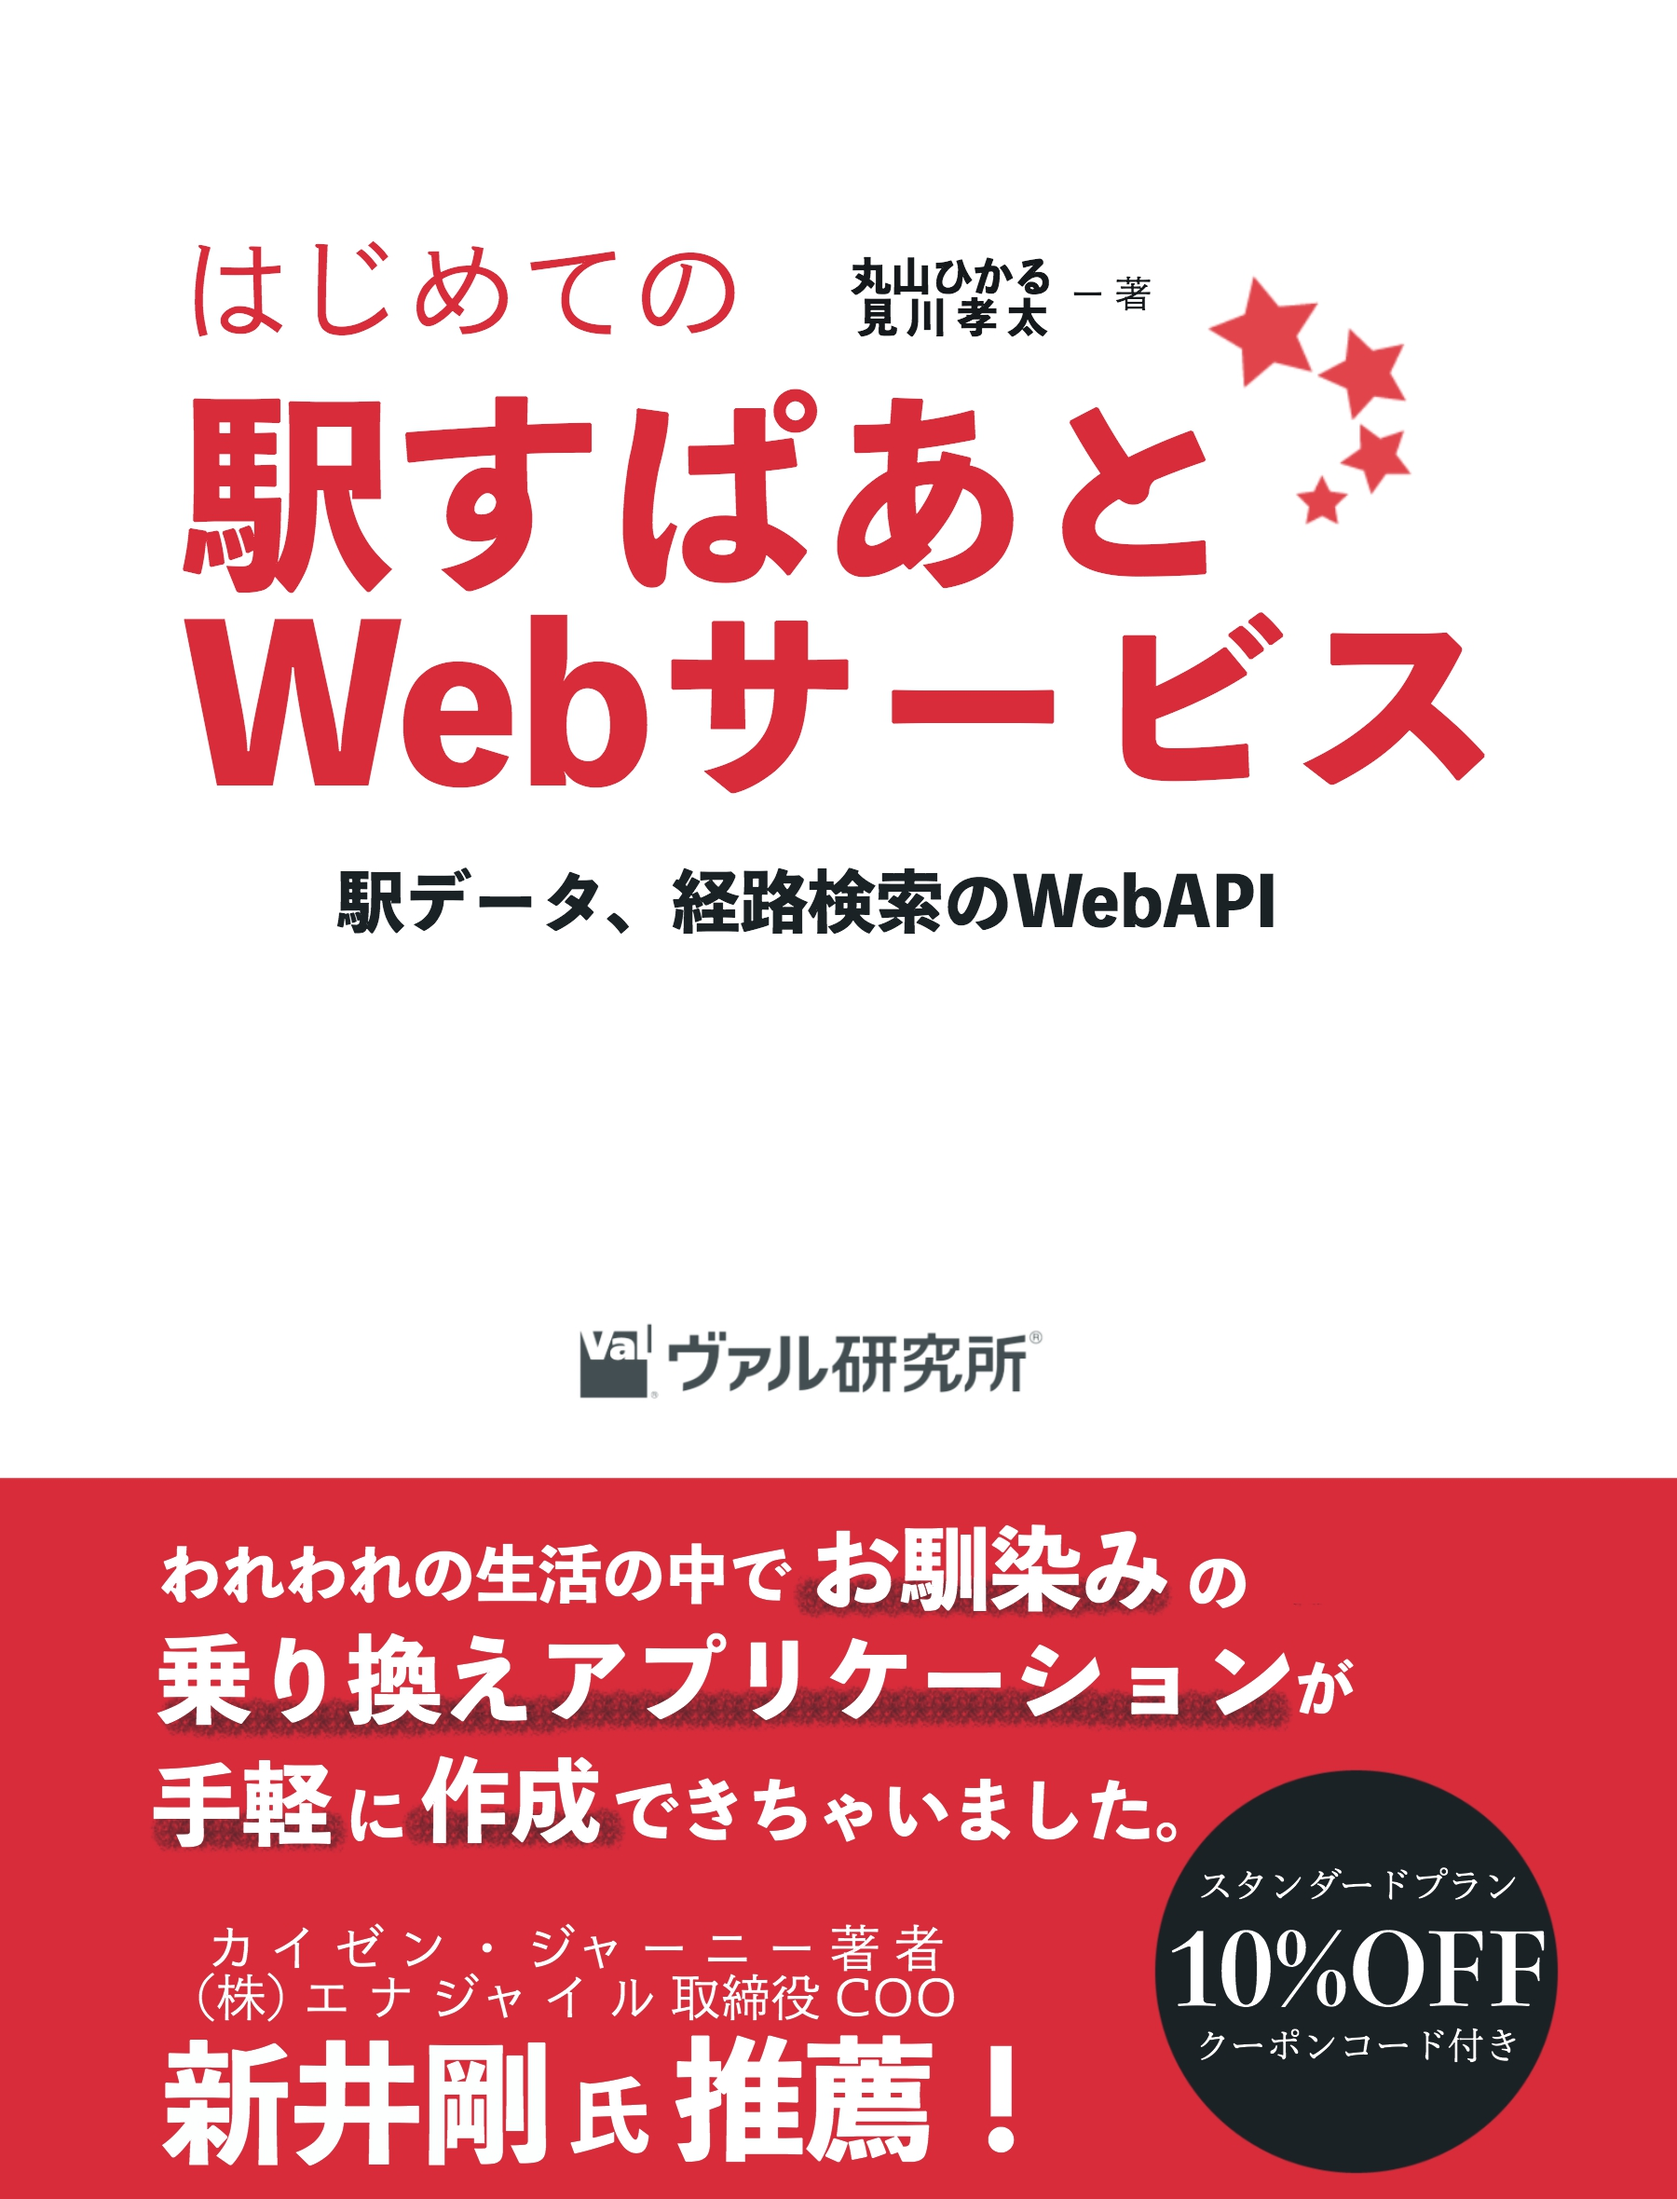
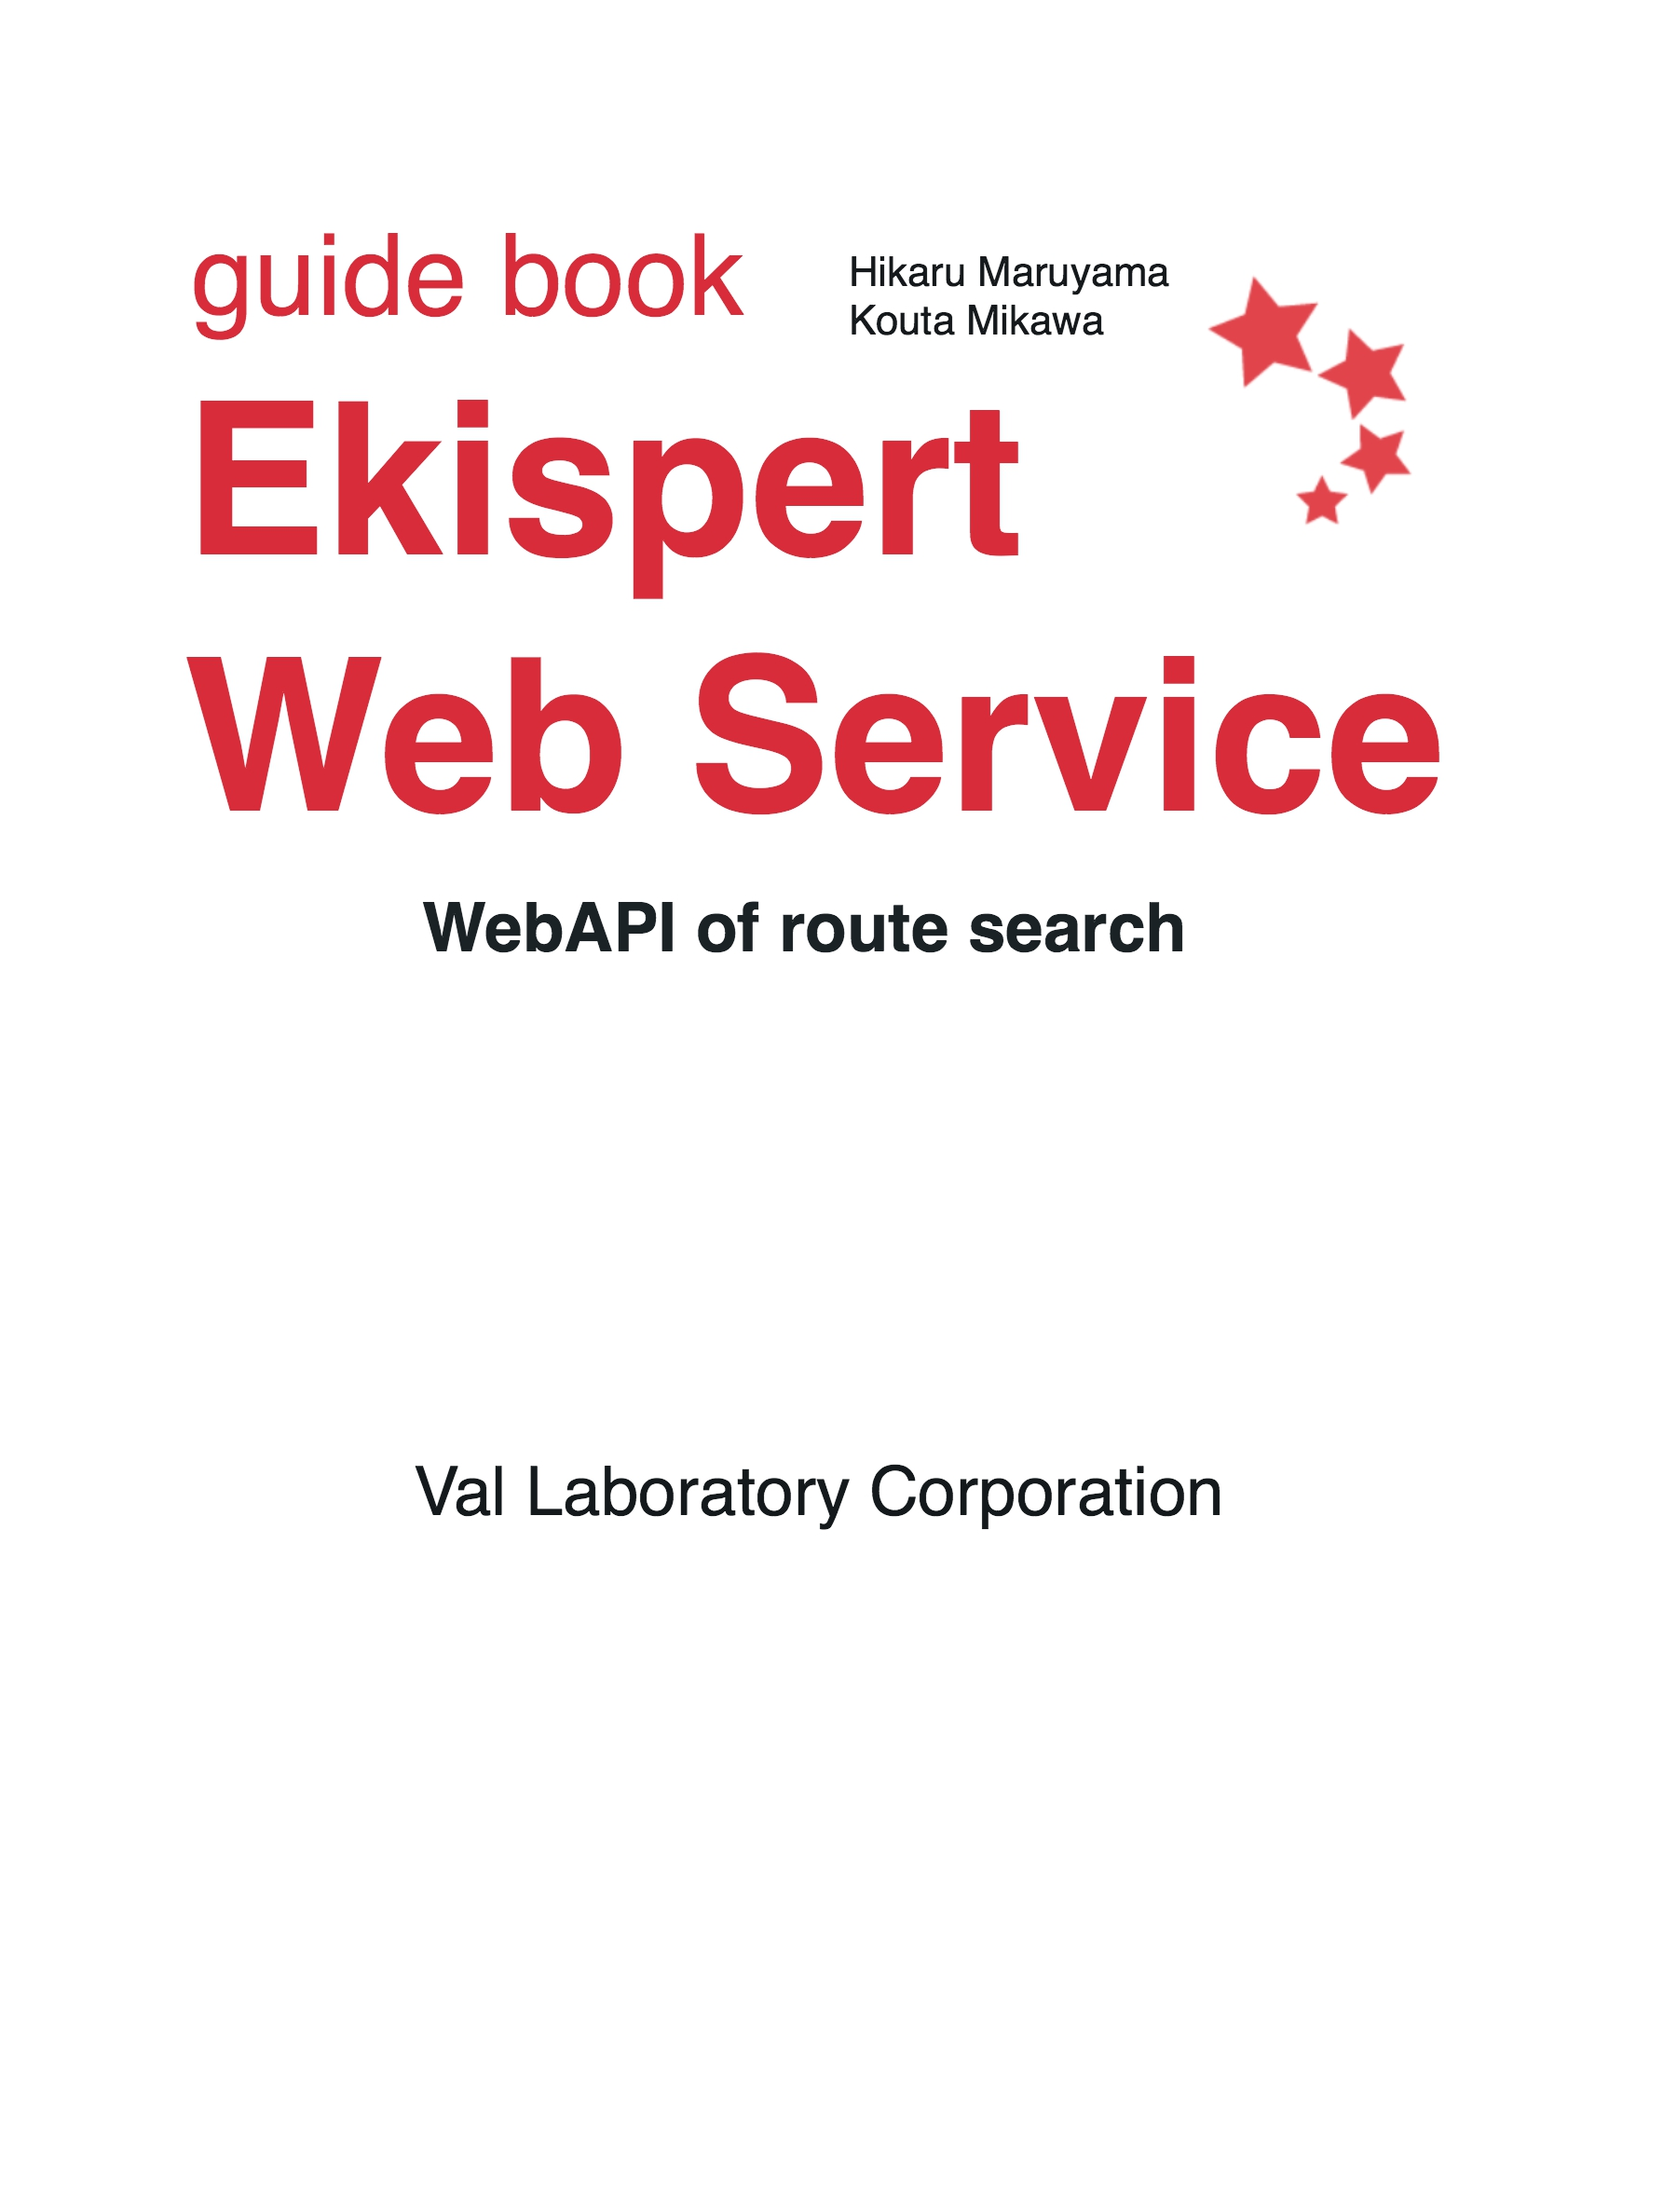
途中まで翻訳しました。

diff --git a/SUMMARY.md b/SUMMARY.md
@@ -1,19 +1,19 @@
 # 目次
 
-* [はじめに](/README.md)
-* [駅すぱあとWebサービスとは？](/docs/product.md)
-* [アプリケーションを作ってみよう](/docs/app.md)
-* [APIの解説](/docs/api.md)
-  * [APIのリクエストURLを理解する](/docs/url.md)
-  * [レスポンスのデータフォーマット](/docs/format.md)
-  * [APIの詳しい仕様](/docs/detail.md)
-* [さいごに](/docs/end.md)
-* [付録](/docs/appendix.md)
-  * [開発を始める前に](/docs/before.md)
-  * [開発お役立ちツール](/docs/tools.md)
-    * [APIの仕様理解を深める「API Checker」](/docs/apichecker.md)
-    * [オススメのブラウザ拡張機能](/docs/extension.md)
-    * [開発者ツールを使いこなす](/docs/devtool.md)
-  * [リンク集](/docs/link.md)
-  * [特別付録！スタンダードプラン10%OFFクーポンコード](/docs/coupon.md)
-* [プロフィール](/docs/profile.md)
+* [Intrduction](/README.md)
+* [What's Ekispert Web Service?](/docs/product.md)
+* [Let's implement an application](/docs/app.md)
+* [API](/docs/api.md)
+  * [Request URL](/docs/url.md)
+  * [Data format](/docs/format.md)
+  * [API specification](/docs/detail.md)
+* [Afterword](/docs/end.md)
+* [appendix](/docs/appendix.md)
+  * [Before getting started](/docs/before.md)
+  * [Tools](/docs/tools.md)
+    * [API Checker](/docs/apichecker.md)
+    * [Extentions](/docs/extension.md)
+    * [DevTools](/docs/devtool.md)
+  * [Links](/docs/link.md)
+  * [A special appendix](/docs/coupon.md)
+* [Profile](/docs/profile.md)

diff --git a/README.md b/README.md
@@ -1,15 +1,9 @@
-# はじめに
+# Intrduction
 
-本書を手にとっていただいているということは「駅すぱあと」[^1]をご存知でしょうか？
-少なくとも興味があると考えて良いでしょうか？
-もちろん駅すぱあとが何かなんて知らないという方もいらっしゃるでしょう。
-そんな方のために、この「はじめに」があります。
-すでにご存知の方は次のページをめくっていただいても問題ありません。
-「駅すぱあと」とは、1988年に誕生した経路探索ソフトです。
-昨今ではスマホアプリで乗り換えを調べる際などに利用されている方もいるのではないでしょうか。
-個人向けと思われがちなこの駅すぱあとですが、経路を調べる以外にも様々な機能を備え、多くの企業やアプリケーションで長く使われている歴史があります。
-本書は、その駅すぱあとの提供形態の１つであるWebAPIの入門書となります。
-利用を検討されたり、興味を持たれたりした際に本書がお役にたてば幸いです。
+Do you know "Ekispert"[^1]?
+Ekispert is route search service in Japan that was born in 1988.
+It is provided for customer, bussiness and developer.
+This book is an introduction to WebAPI.
 
-## 脚注
-[^1]: 「駅すぱあと」とは https://ekiworld.net/about/index.html
+## footnote
+[^1]: Ekispert https://ekiworld.net/about/index.html
